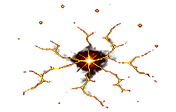
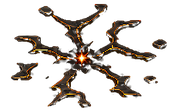
Refine Sapper and Hexer pictorial tells

Changed region(s): [[0.0568, 0.0268, 0.9659, 0.9643], [0.3409, 0.0268, 0.3693, 0.0804], [0.1989, 0.1875, 0.2557, 0.2143]]

diff --git a/assets/game-art/combat-animation/build_assets.py b/assets/game-art/combat-animation/build_assets.py
@@ -42,7 +42,7 @@ SOURCE_DIGESTS = {
[5 lines of base64/hex data omitted]
 }
 
 WARDEN_CROPS = {

diff --git a/assets/game-art/combat-animation/generation-log.md b/assets/game-art/combat-animation/generation-log.md
@@ -325,3 +325,43 @@ Keep top-left bomb, top-right cancellation, bottom-left lantern, and bottom-righ
 ### Bounded QA and export semantics
 
 The replacement keeps eight isolated authored layers and removes baked floor pixels from both committed endpoints. Sapper preparation now carries its bomb source into the directional fuse itself before the open destination scratches; commitment is alpha-only etched fissures. Hexer preparation starts with a compact open source rune, follows a narrow channel, and resolves into a separate open asymmetric endpoint. Runtime-scale WIP capture remains the controlling readability and hierarchy gate.
+
+## `shuttergate-sapper-hexer-intent-atlas-master.png` — structural-readability correction
+
+- Provider: `openai-codex`
+- Model: `gpt-image-2-medium`
+- Aspect ratio: `landscape`
+- Requested and saved dimensions: `1536x1024`
+- Quality: `medium`
+- Modality: three image-to-image correction passes plus one deterministic cell-containment pass
+- Input image: preceding project-owned `shuttergate-sapper-hexer-intent-atlas-master.png`
[3 lines of base64/hex data omitted]
+- License: project MIT license (`LICENSE`)
+
+### Exact replacement prompt
+
+Edit this ORIGINAL project-owned Dwarven Depths 4-column x 2-row VFX atlas as a production readability correction. Preserve exactly eight isolated cells in the same order on a perfectly uniform pure black removable-key background, with generous black margins and no element crossing a cell boundary. Keep the painterly chunky pixel-art dark-fantasy material language, elevated floor-facing perspective, smoked iron, aged brass, ember orange, charcoal, and muted dusty plum. No text, labels, UI panels, plaques, health bars, actors, scenery, floor tiles or filled floor patches, circles, rings, crosshairs, arrows, chevrons, letters, neon, cyan, broad ribbons, smoke serpents, opaque clouds, or generic debug geometry.
+
+This correction must improve thumbnail readability by simplifying detail and strengthening bold object silhouettes and structural marks, not by increasing glow, saturation, particle count, or effect footprint. Actors will remain visually primary.
+
+Top row, left to right: (1) compact round black-iron Sapper powder bomb source attachment with a thick short braided fuse, one restrained amber ember, brass cap, two bold rivets, and a tiny asymmetric attachment notch; (2) one coherent low bomb-to-braided-fuse-to-open-etched-footprint preparation sequence, using sparse aged-brass ember segments, thin broken smoke, six chunky irregular scorch cuts, and large transparent gaps; (3) the same broad low committed footprint with six to eight chunky scorched fissures, modest grounded ignition, and at most five embers; (4) broken bomb halves and severed extinguished fuse cancellation. No backing, rope-only smear, smoke serpent, filled disc, magic circle, star, flame column, or prohibition icon.
+
+Bottom row, left to right: (1) compact forged Hexer rune lantern source attachment with dark iron body, brass handle/notch, and one bold asymmetrical muted-plum crystal slash; (2) an open three-stroke source rune followed by one taut shallow narrow dusty-plum channel with intermittent aged-brass thread and a frayed non-arrow hook; (3) a compact floor-hugging open recipient mark made from three unequal broken claw-like strokes around a dim plum fracture; (4) fractured lantern and crystal cancellation. Preserve abundant negative space and no backing, ribbon, generic glyph, ring, triangle, badge, crosshair, or prohibition icon.
+
+Prioritize bold legible silhouettes, controlled light/dark material separation, floor integration, pictorial source/direction/consequence, and clean negative space at normal 1440x900 gameplay scale.
+
+### Exact cell-containment correction prompt
+
+Make one surgical correction to this ORIGINAL project-owned 1536x1024 4-column x 2-row VFX atlas. Preserve every visible pixel, pure black background, canvas, grid, style, and asset exactly unchanged except bottom row, second column. Move and slightly compress the complete Hexer source-rune, narrow plum/brass channel, frayed hook, and two motes so all visible pixels remain safely inside x=384 through x=767 and y=512 through y=1023, with at least 28 pixels of pure black horizontal margin. Keep the source rune complete, the channel narrow and shallow, and the ending non-arrow. Do not clip, erase, redesign, enlarge, brighten, or alter any other cell.
+
+### Exact Sapper cell-containment correction prompt
+
+Make one surgical production correction to this ORIGINAL project-owned 1536x1024 4-column x 2-row VFX atlas. Preserve every visible pixel, pure black background, canvas, strict grid, painterly style, and asset exactly unchanged except top row, second column. Move and slightly compress the complete Sapper preparation artwork—the recognizable bomb, physical braided fuse, sparse ember/smoke marks, and open etched destination scratches—so all visible pixels remain inside x=384 through x=767 and y=0 through y=511. Preserve the full bomb silhouette at the left, one continuous readable fuse through the middle, and the open destination footprint at the right. Do not alter the adjacent cells, add a second bomb, clip, erase, redesign, enlarge, brighten, add particles, or change any other asset.
+
+The image correction retained four meaningful Hexer-source pixels across the equal-cell boundary. A deterministic Pillow correction recovered the complete artwork from x=350 through x=767, cleared that bounded region, resized the recovered keyed artwork proportionally to 344×96 pixels, and placed it at x=404, y=728. This leaves 20 black pixels on both sides of the canonical x=384 through x=767 export cell without changing the other seven assets.
+
+### Bounded QA and export semantics
+
+The candidate preserves eight isolated alpha-keyable assets and simplifies both mechanic sequences around readable structural silhouettes. The Sapper preparation repeats the bomb at its source, carries one continuous physical fuse toward an open destination footprint, and resolves into a related floor fracture. The Hexer source rune and narrow channel remain wholly contained in their export cell and lead to a separate open recipient mark. The exact running-client WIP board remains the controlling product-quality gate.
